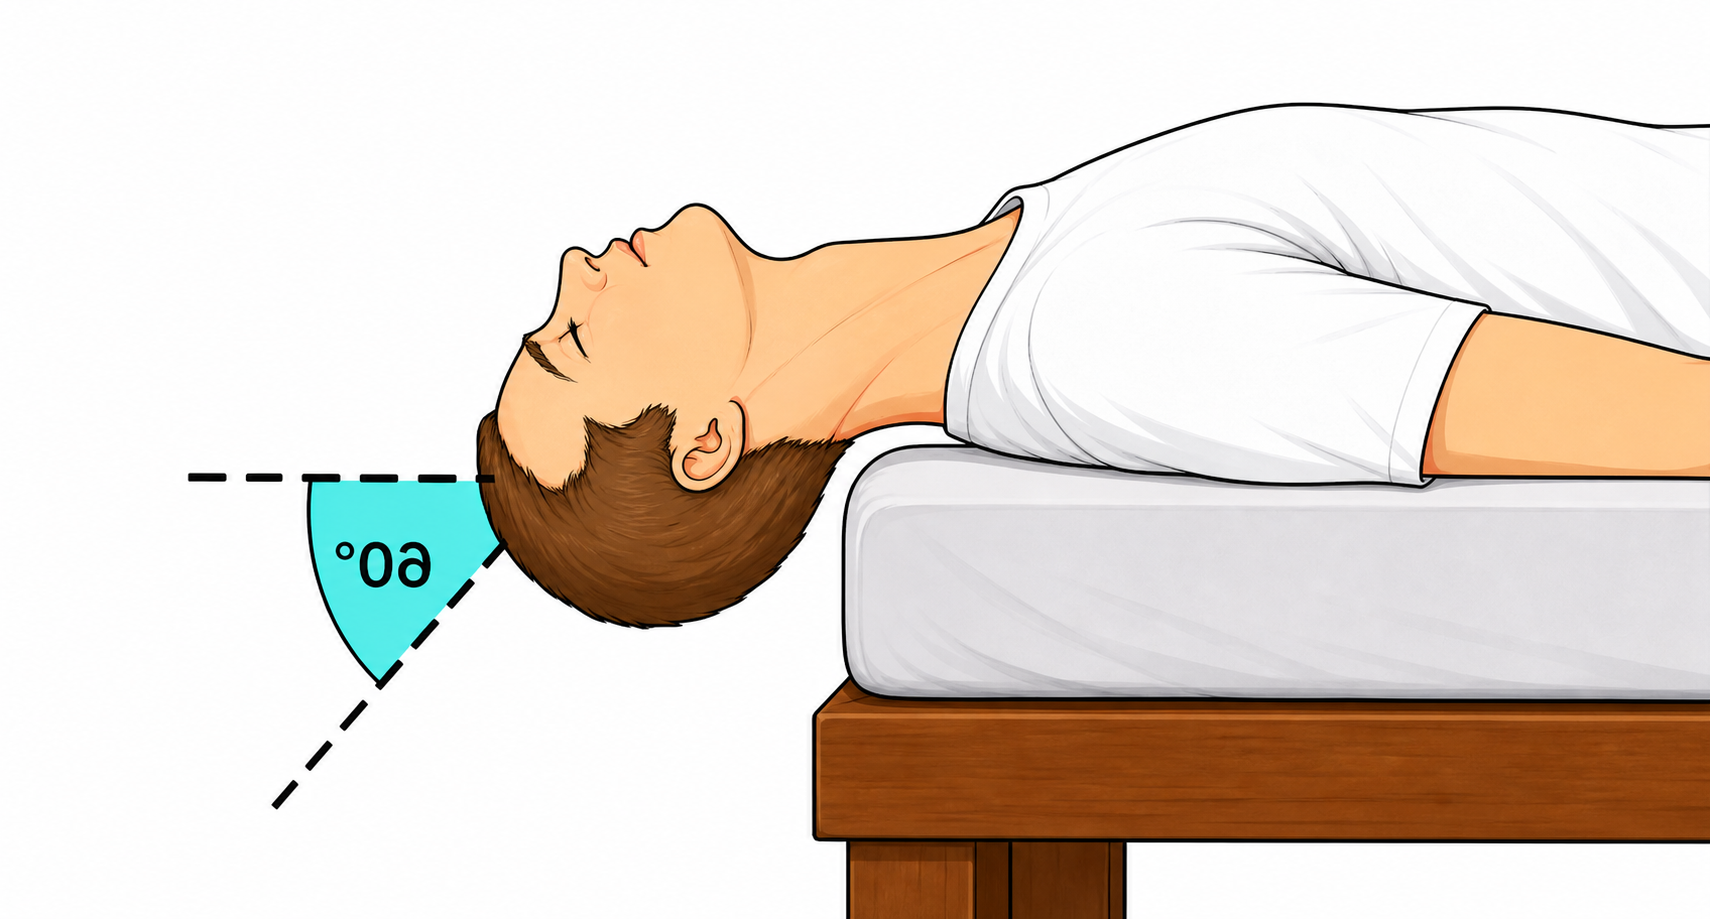
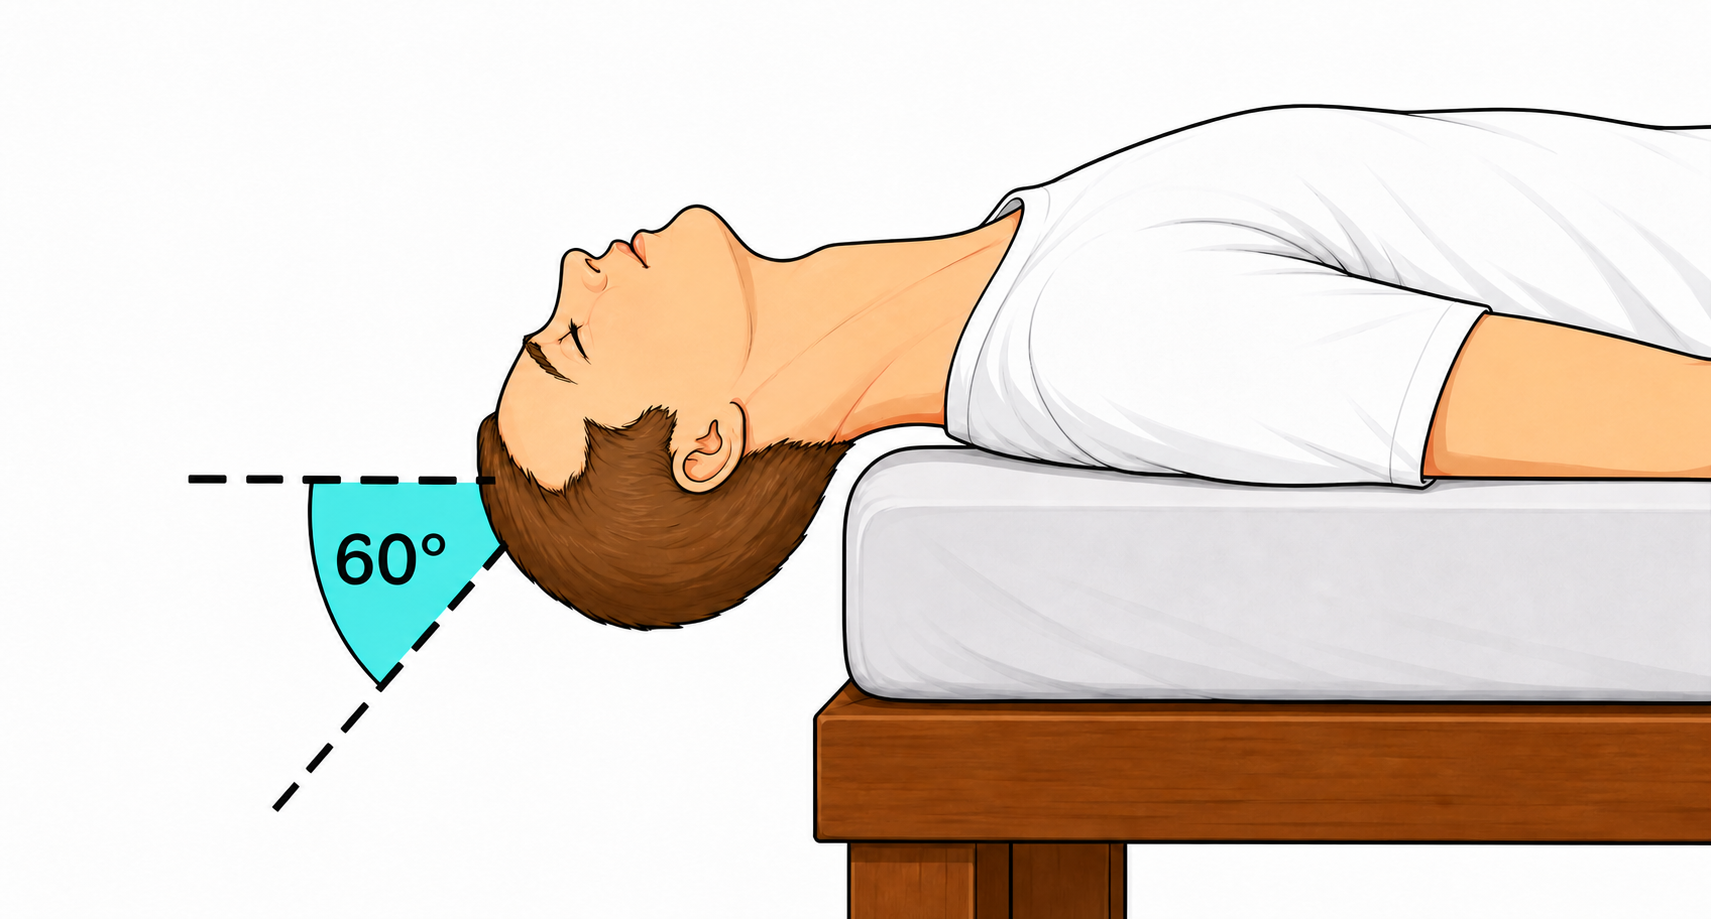
Updates

diff --git a/index.html b/index.html
@@ -1,1 +1,1 @@
-<!doctype html><html lang="en"><head><meta charset="utf-8"/><link rel="icon" href="/headspin_ble/favicon.ico"/><meta name="viewport" content="width=device-width,initial-scale=1"/><meta name="theme-color" content="#000000"/><meta name="description" content="Web site created using create-react-app"/><link rel="apple-touch-icon" href="/headspin_ble/logo192.png"/><link rel="manifest" href="/headspin_ble/manifest.json"/><title>React App</title><script defer="defer" src="/headspin_ble/static/js/main.5af86f9d.js"></script><link href="/headspin_ble/static/css/main.1cae11d8.css" rel="stylesheet"></head><body><noscript>You need to enable JavaScript to run this app.</noscript><div id="root"></div></body></html>
+<!doctype html><html lang="en"><head><meta charset="utf-8"/><link rel="icon" href="/headspin_ble/favicon.ico"/><meta name="viewport" content="width=device-width,initial-scale=1"/><meta name="theme-color" content="#000000"/><meta name="description" content="Web site created using create-react-app"/><link rel="apple-touch-icon" href="/headspin_ble/logo192.png"/><link rel="manifest" href="/headspin_ble/manifest.json"/><title>React App</title><script defer="defer" src="/headspin_ble/static/js/main.3386d0ea.js"></script><link href="/headspin_ble/static/css/main.1cae11d8.css" rel="stylesheet"></head><body><noscript>You need to enable JavaScript to run this app.</noscript><div id="root"></div></body></html>